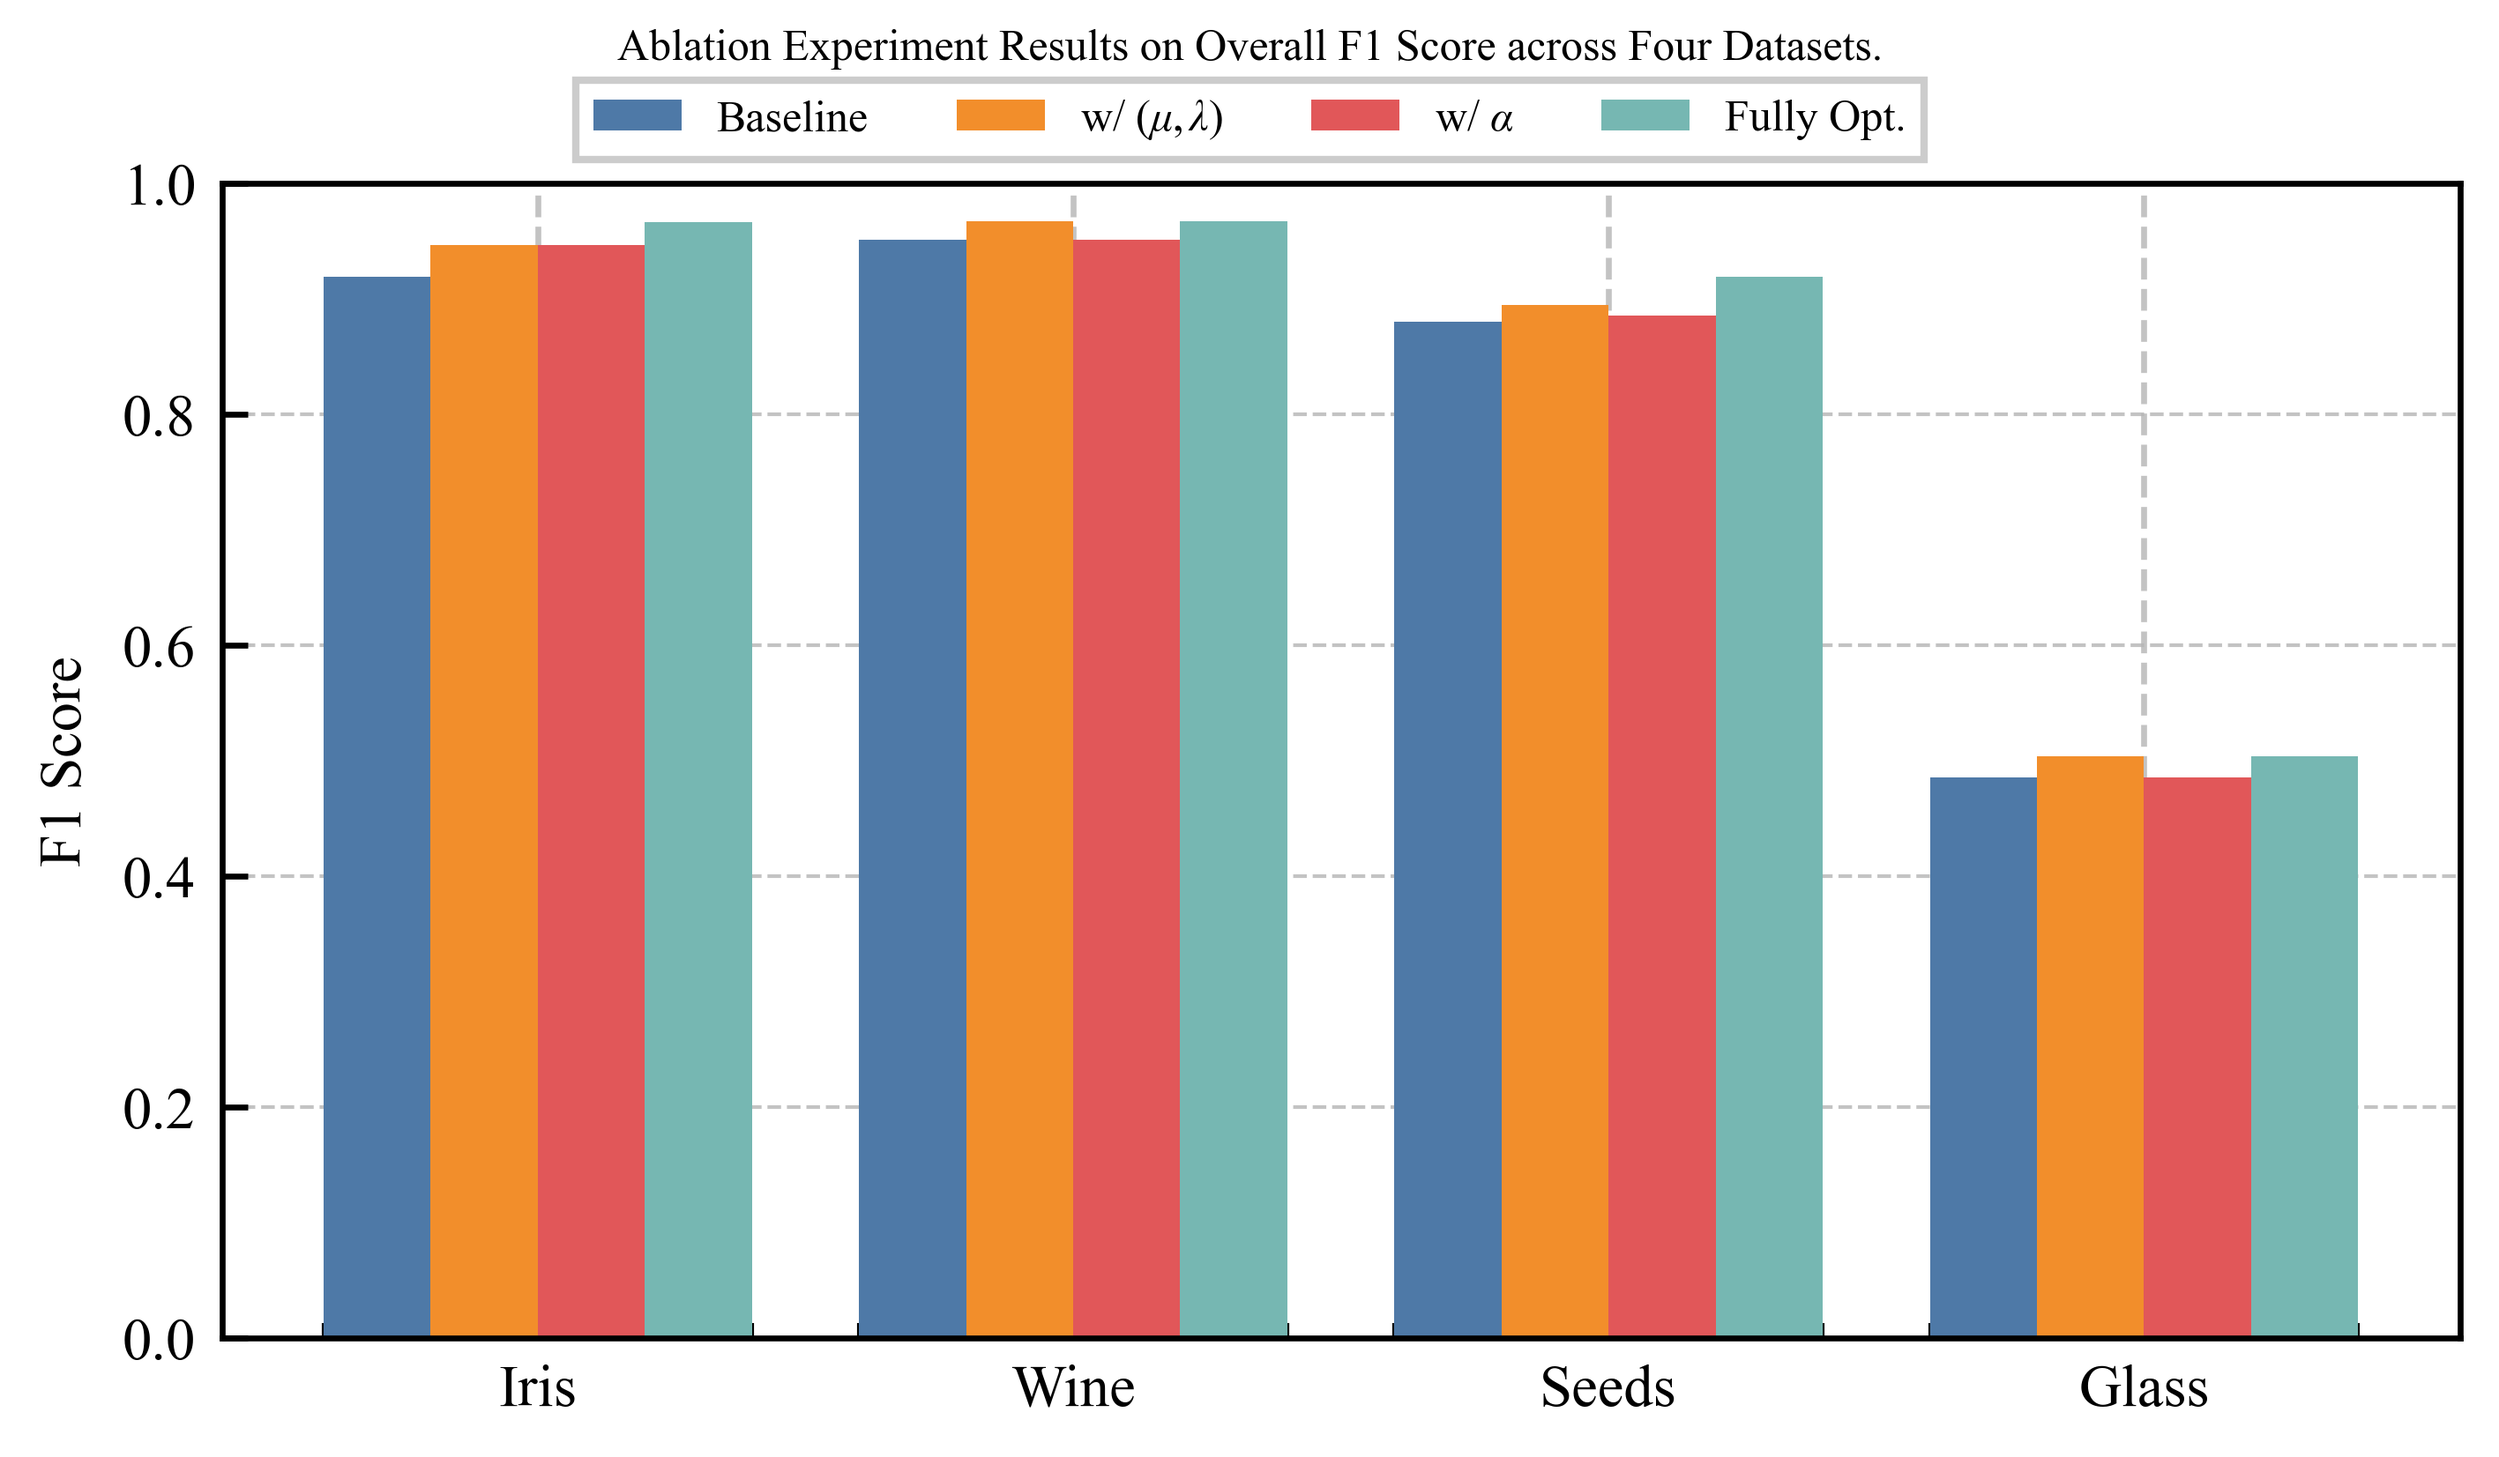
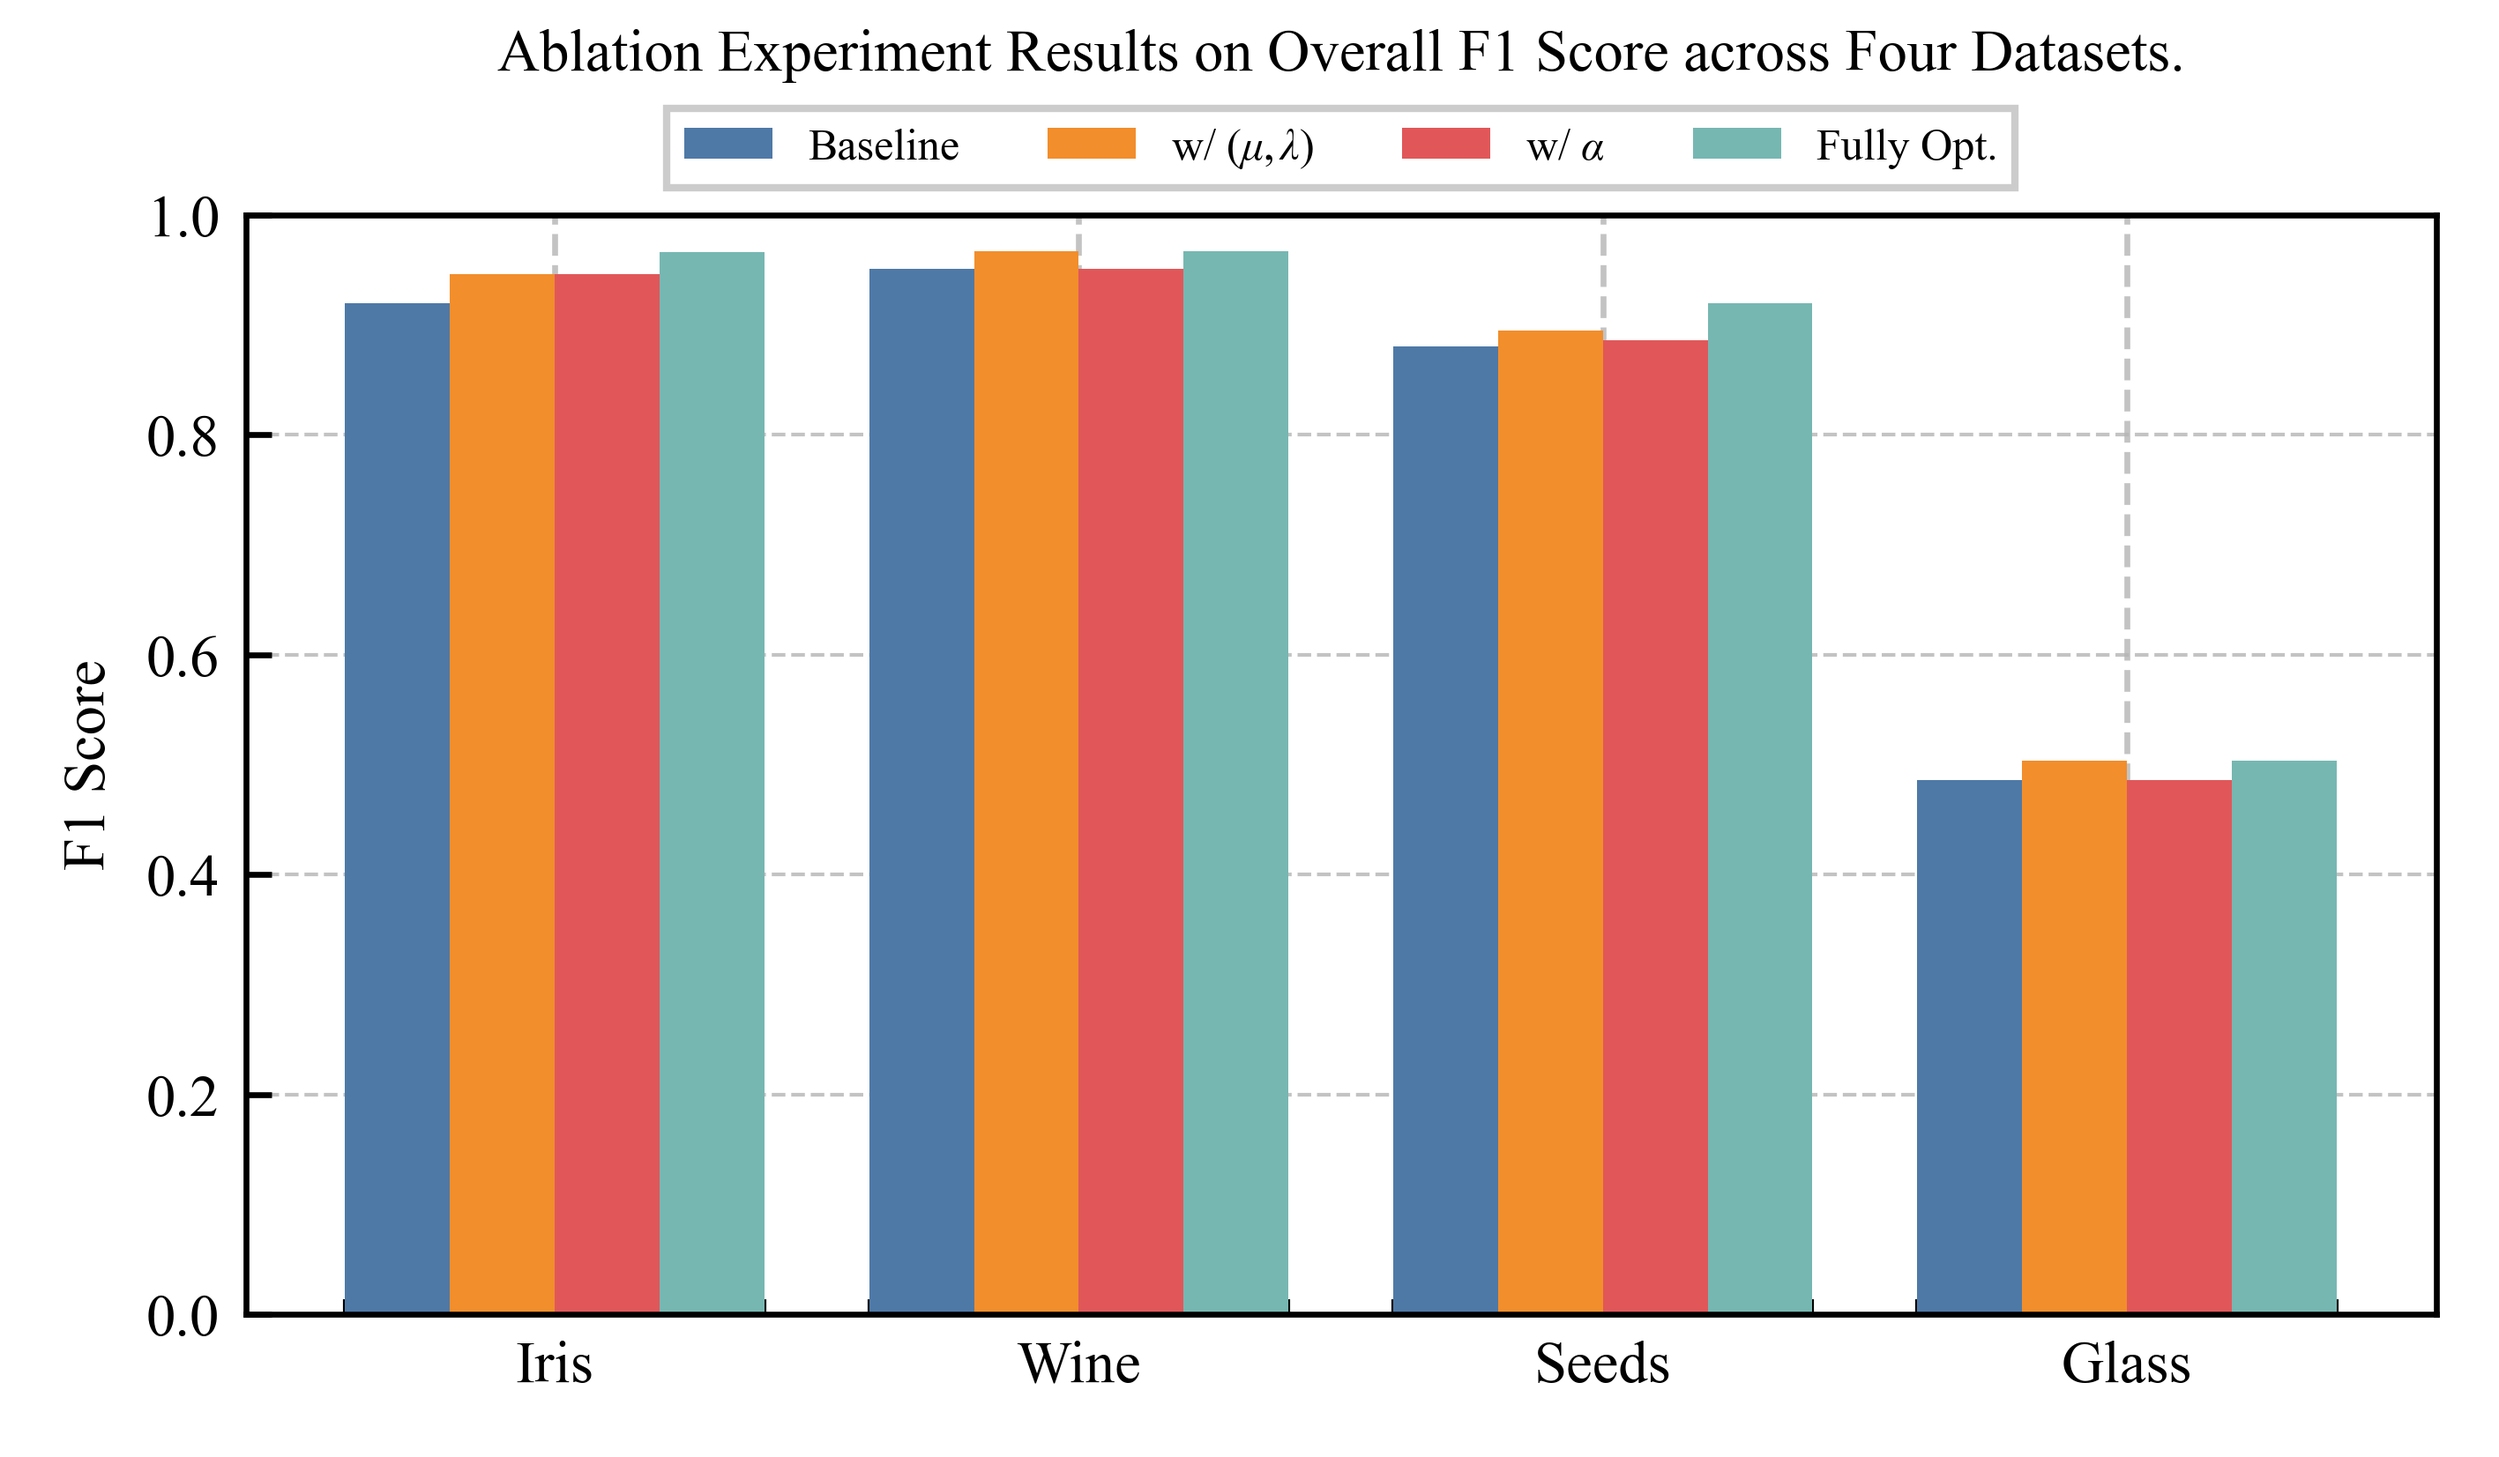
Fix Some Small Bugs

diff --git a/figures/bayes_params_plot.py b/figures/bayes_params_plot.py
@@ -47,7 +47,7 @@ DATASET_LABEL_IDX: dict[str, int] = {
 }
 
 
-def plot_dataset(dataset: str, label_idx: int, font_kwargs: dict | None = None, with_title: bool = False, ) -> None:
+def plot_dataset(dataset: str, label_idx: int, with_title: bool = False) -> None:
     """绘制单个数据集的 ``mu`` 与 ``lambda`` 曲线
 
     Parameters
@@ -56,8 +56,6 @@ def plot_dataset(dataset: str, label_idx: int, font_kwargs: dict | None = None, 
         数据集名称，对应 csv 文件前缀。
     label_idx:
         字母编号，用于在标题中标记 ``(a)``, ``(b)`` 等。
-    font_kwargs:
-        控制标题字体的大小与粗细，例如 ``{"fontsize": 14, "fontweight": "bold"}``。
     with_title:
         是否在图中添加标题，默认不添加。
     """
@@ -85,6 +83,18 @@ def plot_dataset(dataset: str, label_idx: int, font_kwargs: dict | None = None, 
     # 主图宽度为高度的 2.5 倍
     fig, ax = plt.subplots(figsize=(9, 2.5), dpi=600)
 
+    # 0 为对称轴，完整展示 [-3, 3]
+    ax.set_ylim(-3, 3)
+    ax.axhline(0.0, color="#43AC95", linestyle="--", linewidth=1)
+    ax.set_yticks(range(-3, 4))
+
+    # 绘制网格线，但隐藏 y=0 对应的那一条
+    ax.yaxis.grid(True)
+    for tick_val, gridline in zip(ax.get_yticks(), ax.yaxis.get_gridlines()):
+        if tick_val == 0:
+            gridline.set_visible(False)
+            break
+
     # 采用 SCI 标准的鲜艳配色，点略大于线宽
     line_width = 1.0
     marker_size = 3.5
@@ -111,18 +121,12 @@ def plot_dataset(dataset: str, label_idx: int, font_kwargs: dict | None = None, 
         label=r"$\log_{10}(\mu)$",
     )
 
-    # 0 为对称轴，完整展示 [-3, 3]
-    ax.set_ylim(-3, 3)
-    ax.axhline(0.0, color="#666666", linestyle="--", linewidth=1.2)
-    ax.set_yticks(range(-3, 4))
-
     ax.set_xlabel("times")
     ax.set_ylabel(r"$\log_{10}$ $(\mu,\lambda)$ Value")
     ax.set_xlim(x.min(), x.max())
-    # 标题统一采用加粗大字号样式
     _title_text = f"({string.ascii_lowercase[label_idx]}) {title}"
     if with_title:
-        ax.set_title(_title_text, **(font_kwargs or {}))
+        ax.set_title(_title_text)
 
     # 坐标刻度与权重均使用默认样式（由 apply_style 控制）
 
@@ -138,15 +142,12 @@ def plot_dataset(dataset: str, label_idx: int, font_kwargs: dict | None = None, 
 if __name__ == "__main__":  # pragma: no cover
     parser = argparse.ArgumentParser(description="Visualize Bayes parameter tuning results")
     # todo 默认绘制的数据集，绘制其他数据集的需要调整
-    parser.add_argument("datasets", nargs="*", default=["iris"], help="datasets to plot")
+    parser.add_argument("datasets", nargs="*", default=["iris", "wine", "seeds"], help="datasets to plot")
     # 是否为每个图添加标题
-    parser.add_argument("--title", action="store_true", help="add titles to each plot", )
+    parser.add_argument("--title", action="store_true", help="add titles to each plot")
     args = parser.parse_args()
-
-    # 统一的字体设置：字号变大并加粗
-    font_kwargs = {"fontsize": 14, "fontweight": "bold"} if args.title else None
 
     # 批量绘制多个数据集的参数曲线
     for ds in args.datasets:
         label_idx = DATASET_LABEL_IDX.get(ds.lower(), 0)
-        plot_dataset(ds, label_idx, font_kwargs, with_title=args.title)
+        plot_dataset(ds, label_idx, with_title=args.title)

diff --git a/figures/initial_figure_draw_test.py b/figures/initial_figure_draw_test.py
@@ -91,8 +91,8 @@ if __name__ == '__main__':
     ax.fill_between(i, y1, y2, where=y2 >= y1, color='darkmagenta', alpha=0.3)
     ax.set_xlabel('Value of $i$')
     ax.set_ylabel('Divergence measurement')
-    ax.legend(fontsize=8)
-    ax.set_title('(a) CRD 后 FBJS', fontsize=10)
+    ax.legend()
+    ax.set_title('(a) CRD 后 FBJS')
     ax.grid(True, linestyle='--', linewidth=0.5)
 
     # 子图 (b)
@@ -105,8 +105,8 @@ if __name__ == '__main__':
     ax.fill_between(i, y2, y3, color='darkmagenta', alpha=0.3)
     ax.set_xlabel('Value of $i$')
     ax.set_ylabel('Divergence measurement')
-    ax.legend(fontsize=8)
-    ax.set_title('(b) DCR 后 FBJS', fontsize=10)
+    ax.legend()
+    ax.set_title('(b) DCR 后 FBJS')
     ax.grid(True, linestyle='--', linewidth=0.5)
 
     # 子图 (c)
@@ -119,8 +119,8 @@ if __name__ == '__main__':
     ax.fill_between(i, y2, y3, color='darkmagenta', alpha=0.3)
     ax.set_xlabel('Value of $i$')
     ax.set_ylabel('Divergence measurement')
-    ax.legend(fontsize=8)
-    ax.set_title('(c) CRD 后 BJS', fontsize=10)
+    ax.legend()
+    ax.set_title('(c) CRD 后 BJS')
     ax.grid(True, linestyle='--', linewidth=0.5)
 
     # 子图 (d)
@@ -133,8 +133,8 @@ if __name__ == '__main__':
     ax.fill_between(i, y2, y3, color='salmon', alpha=0.3)
     ax.set_xlabel('Value of $i$')
     ax.set_ylabel('Divergence measurement')
-    ax.legend(fontsize=8)
-    ax.set_title('(d) DCR 后 BJS', fontsize=10)
+    ax.legend()
+    ax.set_title('(d) DCR 后 BJS')
     ax.grid(True, linestyle='--', linewidth=0.5)
 
     # 子图 (e)
@@ -147,8 +147,8 @@ if __name__ == '__main__':
     ax.fill_between(i, y2, y3, color='salmon', alpha=0.3)
     ax.set_xlabel('Value of $i$')
     ax.set_ylabel('Divergence measurement')
-    ax.legend(fontsize=8)
-    ax.set_title('(e) CRD 后 RB', fontsize=10)
+    ax.legend()
+    ax.set_title('(e) CRD 后 RB')
     ax.grid(True, linestyle='--', linewidth=0.5)
 
     # 子图 (f)
@@ -161,8 +161,8 @@ if __name__ == '__main__':
     ax.fill_between(i, y2, y3, color='salmon', alpha=0.3)
     ax.set_xlabel('Value of $i$')
     ax.set_ylabel('Divergence measurement')
-    ax.legend(fontsize=8)
-    ax.set_title('(f) DCR 后 RB', fontsize=10)
+    ax.legend()
+    ax.set_title('(f) DCR 后 RB')
     ax.grid(True, linestyle='--', linewidth=0.5)
 
     # 布局调整并显示

diff --git a/figures/ablation_bar_plot.py b/figures/ablation_bar_plot.py
@@ -87,8 +87,23 @@ def plot(metric: str = "accuracy") -> None:
     ax.set_ylabel("F1 Score" if metric == "f1" else "Accuracy")
     ax.set_ylim(0.0, 1.0)
 
+    # ---------- 先固定绘图区，再让标题与图例相对其居中 ----------
+    fig.tight_layout(rect=[0, 0, 1, 0.9778])  # 预留上方空间给标题和图例
+
+    # 获取绘图区的位置并计算中心
+    ax_pos = ax.get_position()  # Bbox(x0, y0, x1, y1)
+    center_x = ax_pos.x0 + ax_pos.width / 2  # 绘图区水平中心
+    legend_y = ax_pos.y1 + 0.02  # 图例纵坐标
+    title_y = legend_y + 0.04  # 标题纵坐标
+
     title_metric = "F1 Score" if metric == "f1" else "Accuracy"
-    fig.suptitle(f"Ablation Experiment Results on Overall {title_metric} across Four Datasets.", )
+    fig.suptitle(
+        f"Ablation Experiment Results on Overall {title_metric} across Four Datasets.",
+        x=center_x,
+        y=title_y,
+        ha="center",
+    )
+
     handles, labels = ax.get_legend_handles_labels()
     fig.legend(
         handles,
@@ -96,9 +111,9 @@ def plot(metric: str = "accuracy") -> None:
         loc="upper center",
         ncol=len(CONFIG_LABELS),
         frameon=True,
-        bbox_to_anchor=(0.5, 0.96),
+        bbox_to_anchor=(center_x, legend_y),
     )
-    fig.tight_layout(rect=[0, 0, 1, 0.97])
+    fig.tight_layout(rect=[0, 0, 1, 0.99])
 
     out_path = os.path.join(RES_DIR, f"ablation_{metric}.png")
     savefig(fig, out_path, tight_layout=False, dpi=600)
@@ -109,7 +124,7 @@ if __name__ == "__main__":  # pragma: no cover
     parser.add_argument(
         "--metric",
         choices=["accuracy", "f1"],
-        default="f1",
+        default="accuracy",
         help="选择绘制的性能指标",
     )
     args = parser.parse_args()

diff --git a/experiments/example_alpha_bias.py b/experiments/example_alpha_bias.py
@@ -2,8 +2,7 @@
 """专家超参 \alpha 实验
 ======================
 
-构造 "极端冲突" 的双簇, 观察不同 \alpha 下簇 ``Clus1``与 ``Clus2`` 的人均支持度之比 :math:`SupRate(n,\alpha)` 随克隆次数
-``n`` 的变化。
+构造 "极端冲突" 的双簇, 观察不同 \alpha 下簇 ``Clus1``与 ``Clus2`` 的人均支持度之比 :math:`SupRate(n,\alpha)` 随克隆次数 ``n`` 的变化。
 """
 
 from __future__ import annotations
@@ -127,7 +126,7 @@ def plot_curves(df: pd.DataFrame, alphas: List[float], out_path: str) -> None:
     ax.yaxis.set_minor_formatter(mtick.NullFormatter())
 
     leg = ax.legend(
-        ncol=1, fontsize=5, handlelength=1.2,
+        ncol=1, handlelength=1.2,
         columnspacing=0.5, frameon=True,
         loc="upper left", bbox_to_anchor=(1.02, 1.00)
     )

diff --git a/utility/plot_style.py b/utility/plot_style.py
@@ -54,9 +54,10 @@ def apply_style() -> None:
         # 字体设置
         'font.family': 'Times New Roman',
         'font.serif': ['Times New Roman'],
-        'font.size': 5,
+        'font.size': 8,
         'axes.titlesize': 8,
         'axes.labelsize': 8,
+        'figure.titlesize': 8,
         'xtick.labelsize': 8,
         'ytick.labelsize': 8,
         'legend.fontsize': 6,
